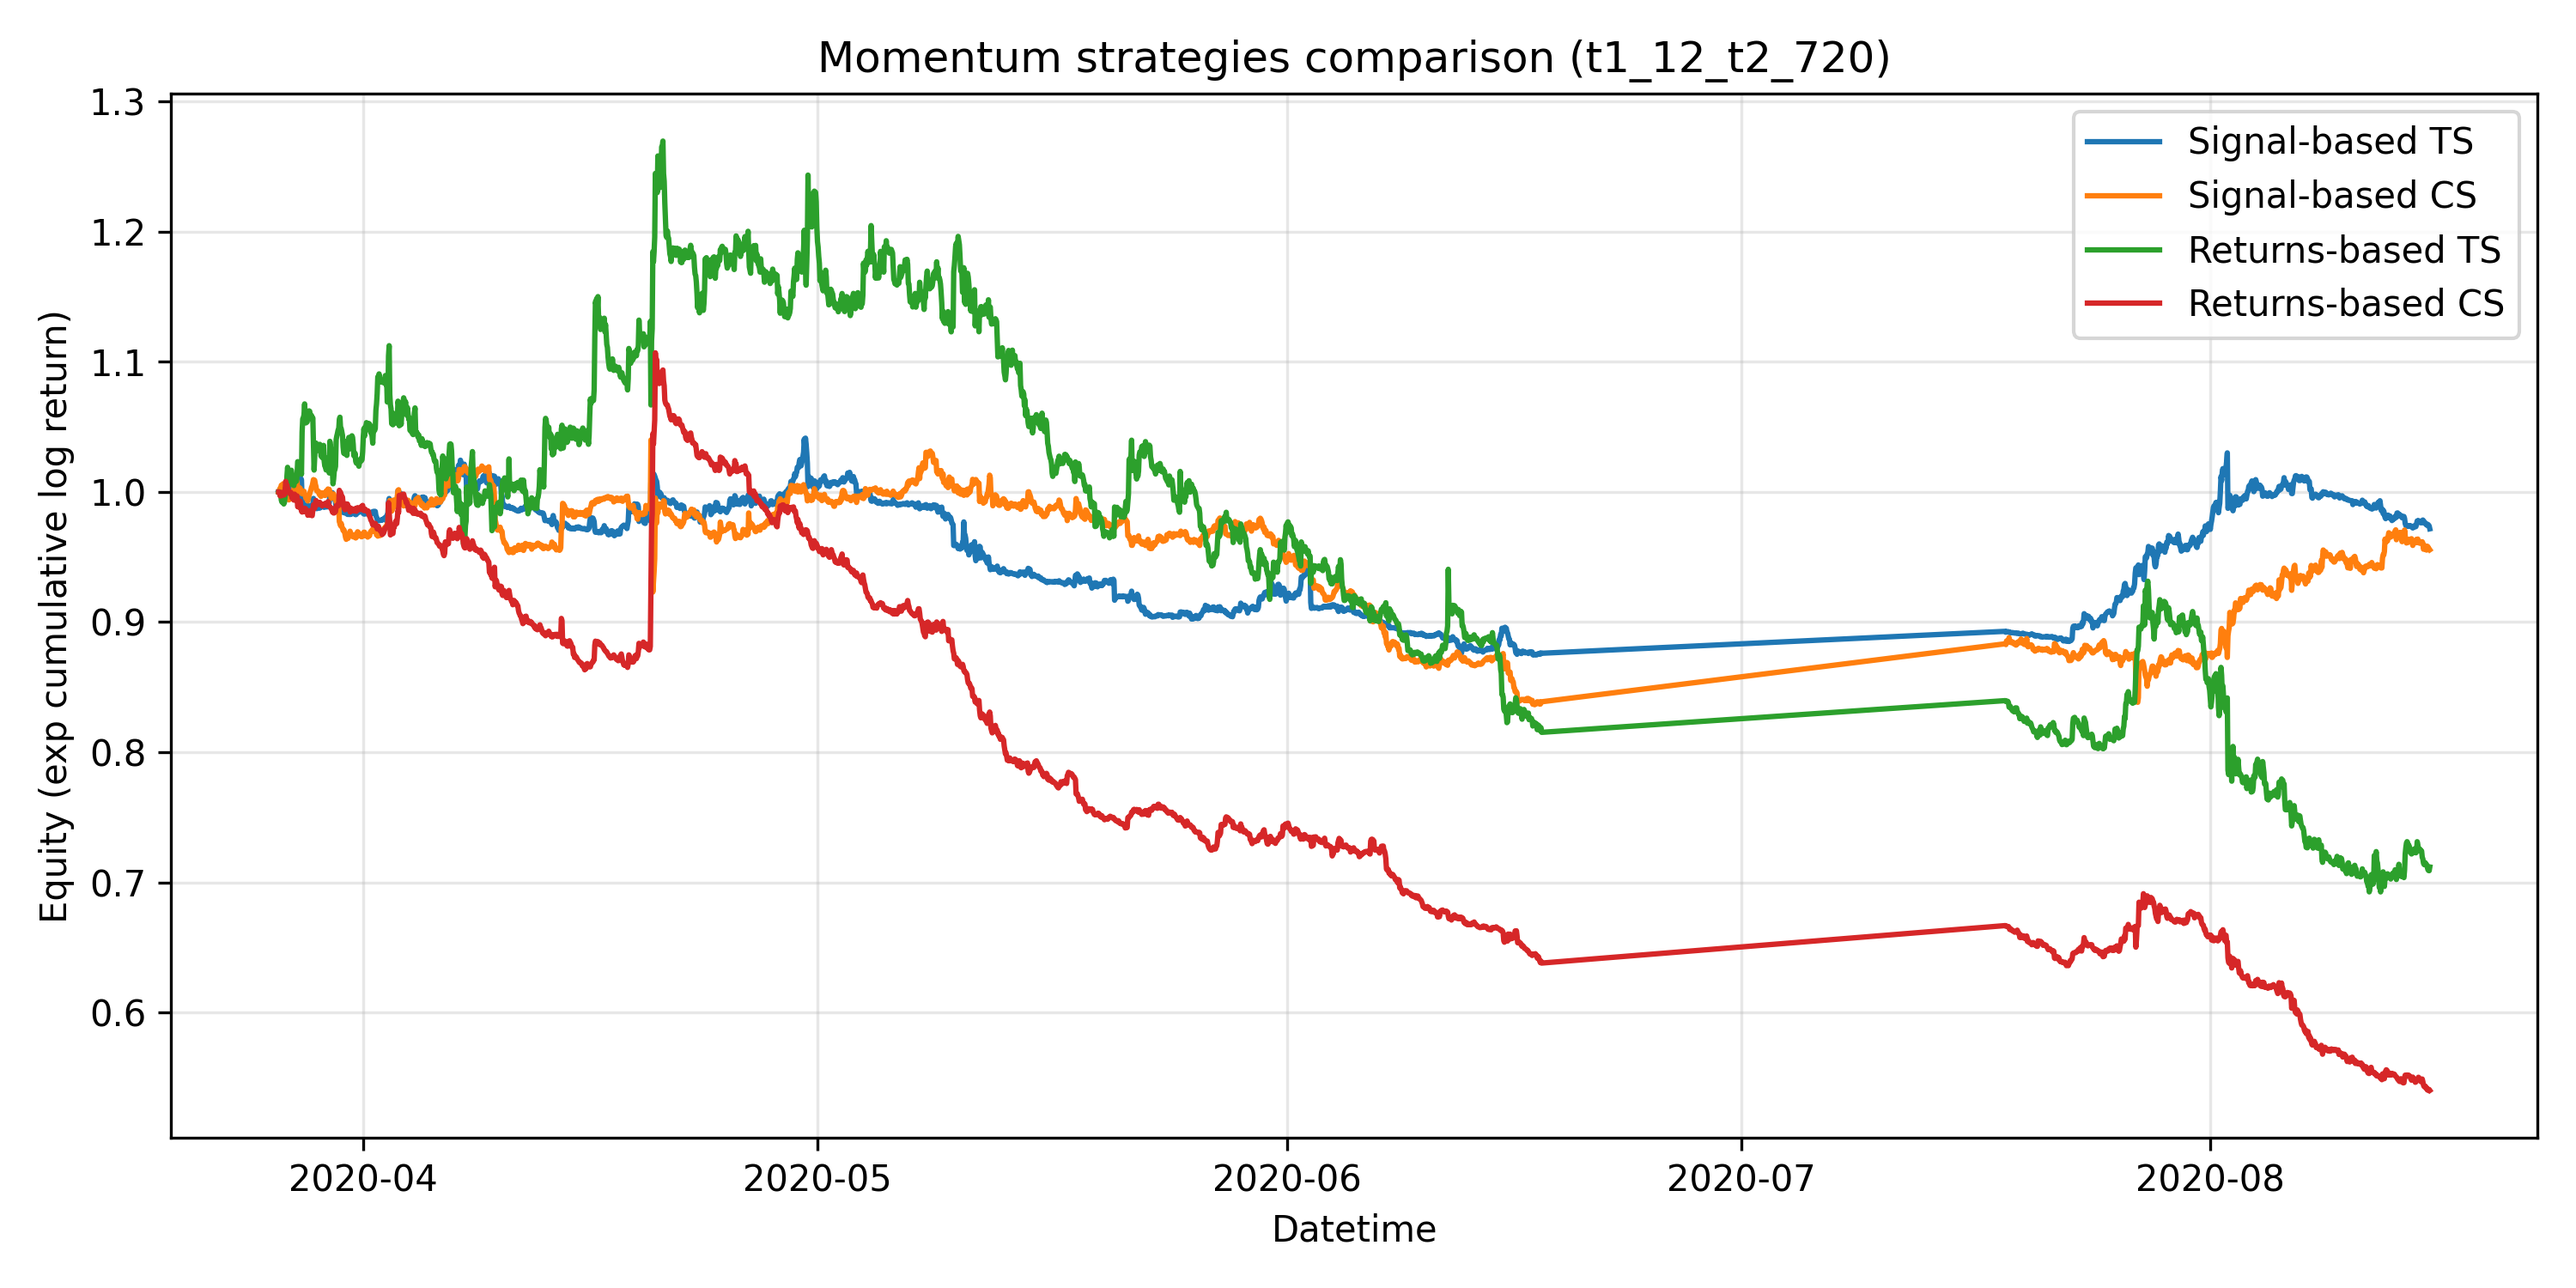
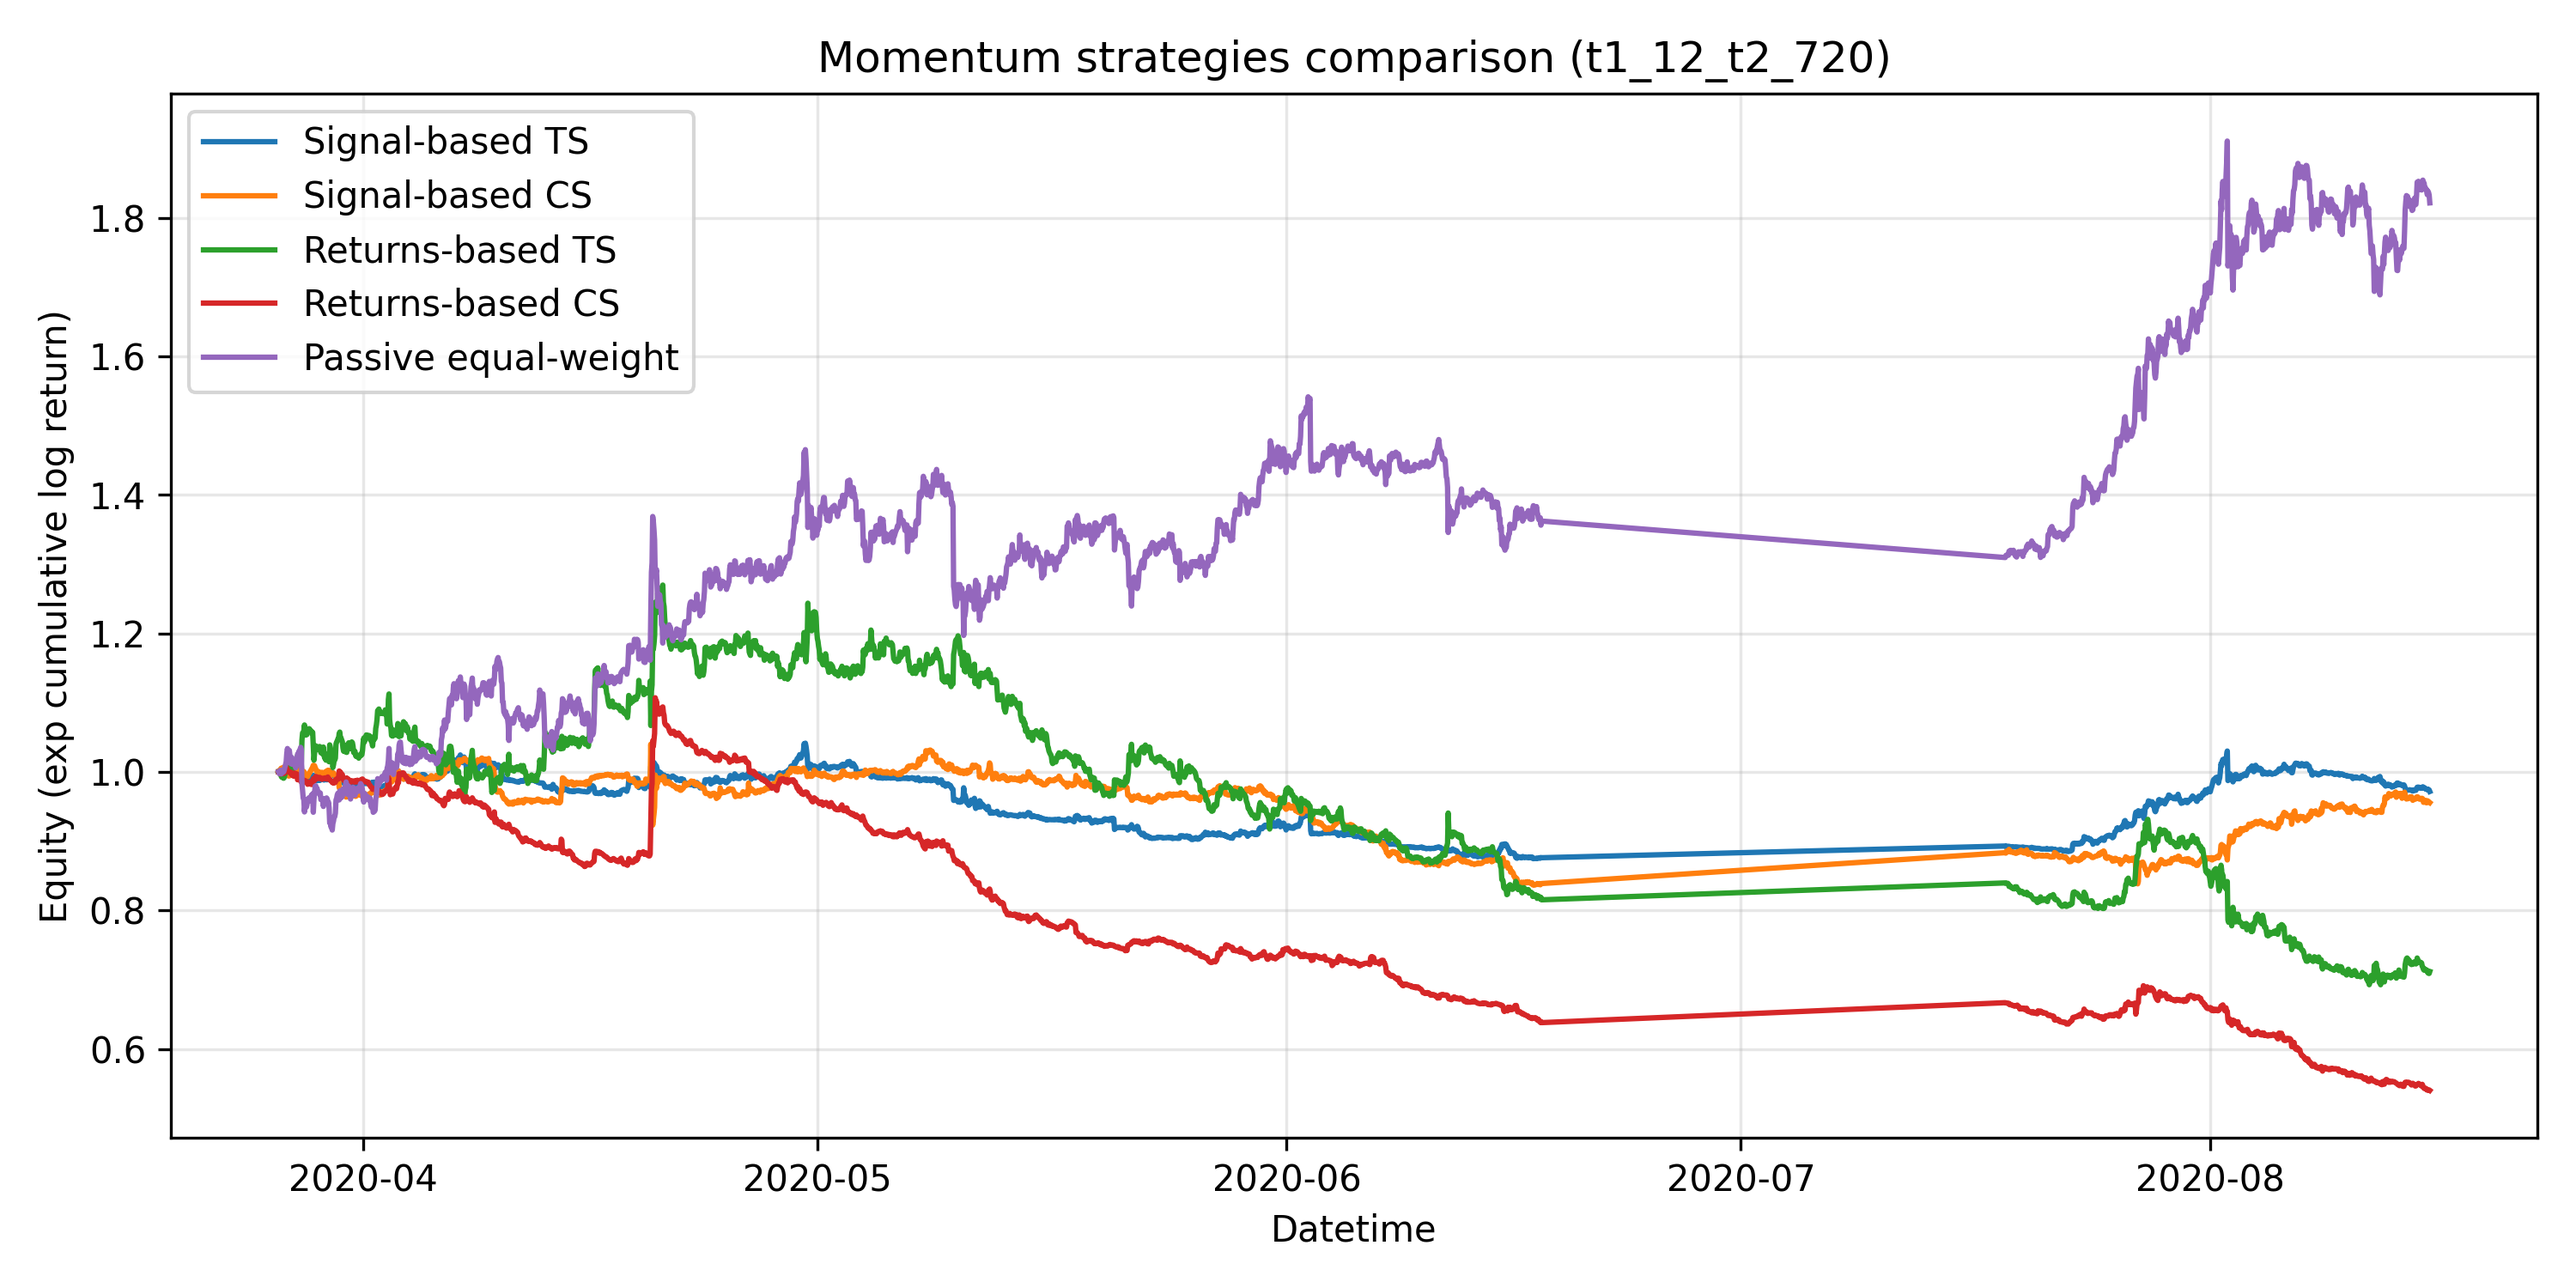
last plots

diff --git a/src/replicate_strategy.py b/src/replicate_strategy.py
@@ -114,6 +114,7 @@ def make_comparison_plot(
     cs: pd.DataFrame,
     ts_rb: pd.DataFrame,
     cs_rb: pd.DataFrame,
+    passive_eq: pd.DataFrame,
     out_path: Path,
     title: str,
 ) -> None:
@@ -122,6 +123,7 @@ def make_comparison_plot(
     plt.plot(cs.index, cs["Equity_CS"], label="Signal-based CS")
     plt.plot(ts_rb.index, ts_rb["Equity_TS_RB"], label="Returns-based TS")
     plt.plot(cs_rb.index, cs_rb["Equity_CS_RB"], label="Returns-based CS")
+    plt.plot(passive_eq.index, passive_eq["Equity_PASSIVE_EQUAL"], label="Passive equal-weight")
 
     plt.title(title)
     plt.xlabel("Datetime")
@@ -133,7 +135,6 @@ def make_comparison_plot(
     out_path.parent.mkdir(parents=True, exist_ok=True)
     plt.savefig(out_path, dpi=300)
     plt.close()
-
 
 def build_summary_row(name: str, ret_series: pd.Series, t1: int, t2: int) -> dict:
     stats = summary_stats(ret_series)
@@ -187,10 +188,14 @@ def run_one_parameterization(df_panel: pd.DataFrame, t1: int, t2: int, out_dir: 
     save_df(cs_rb_d, out_dir / "daily" / f"cs_returns_based_daily_{tag}.csv")
 
     make_comparison_plot(
-        ts, cs, ts_rb, cs_rb,
-        out_path=out_dir / "plots" / f"comparison_{tag}.png",
-        title=f"Momentum strategies comparison ({tag})",
-    )
+    ts,
+    cs,
+    ts_rb,
+    cs_rb,
+    passive_eq,
+    out_path=out_dir / "plots" / f"comparison_{tag}.png",
+    title=f"Momentum strategies comparison ({tag})",
+)
 
     rows = [
         build_summary_row("signal_TS", ts["R_TS"], t1, t2),
